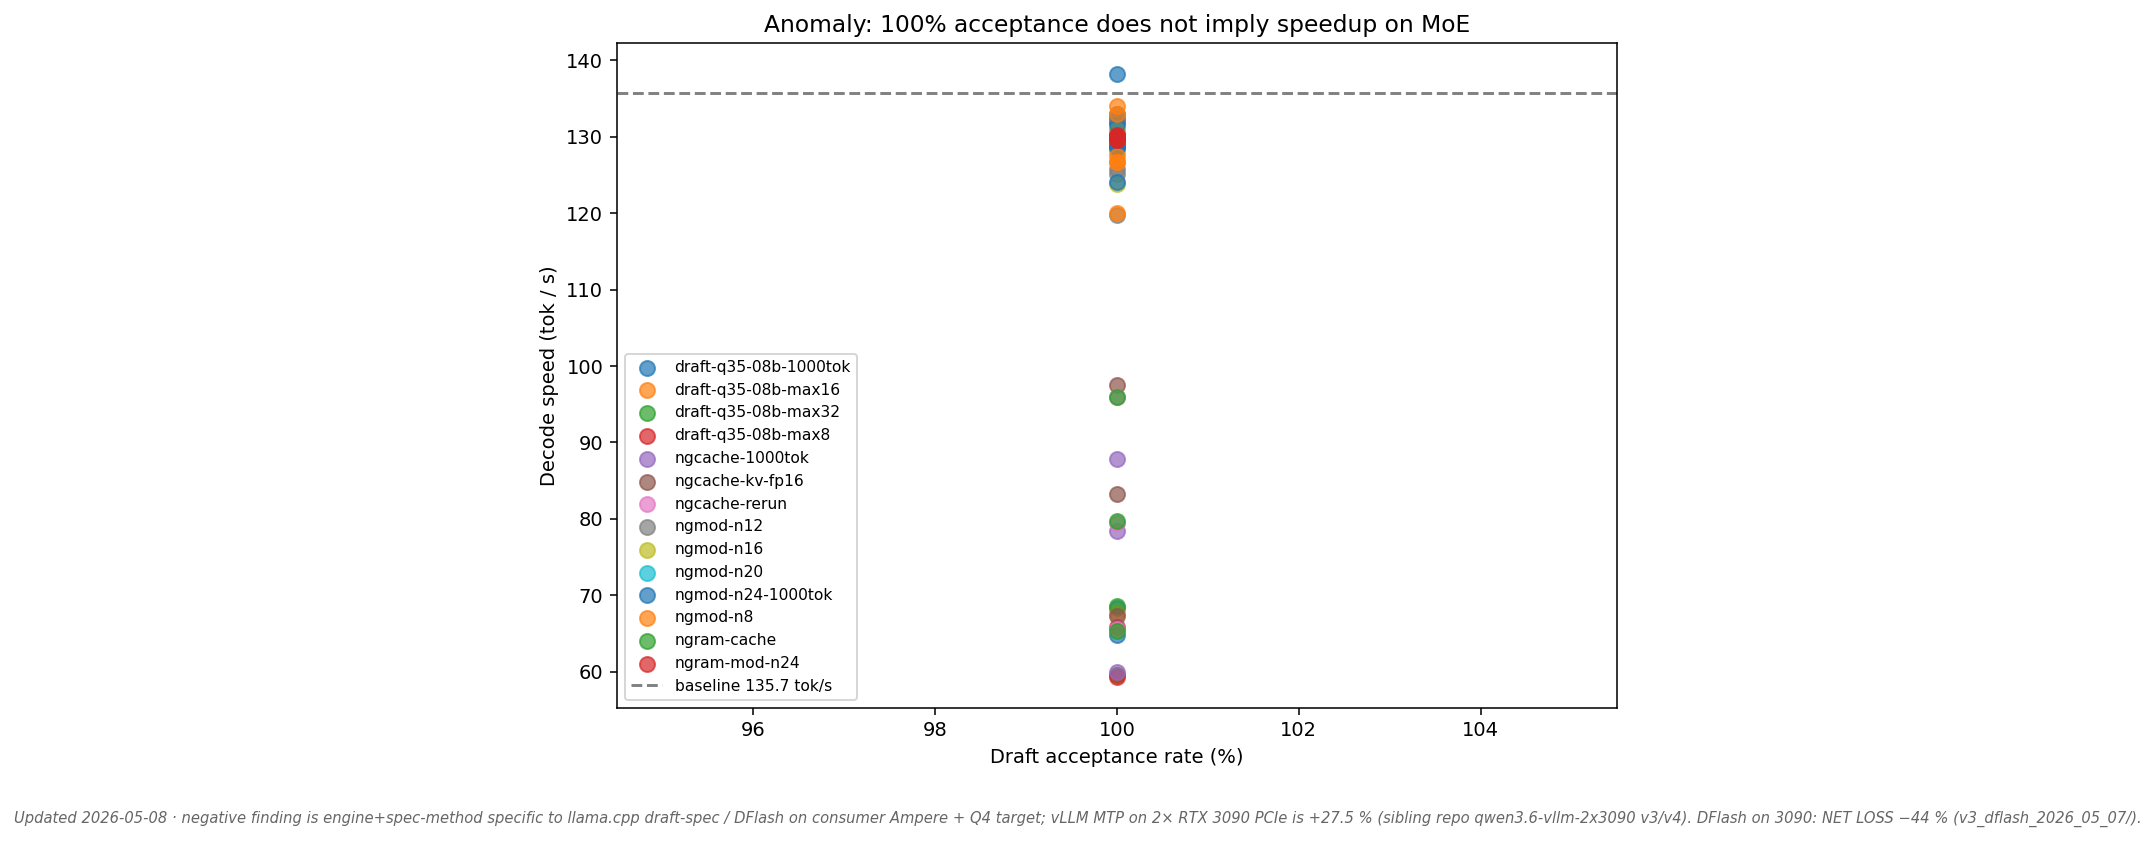
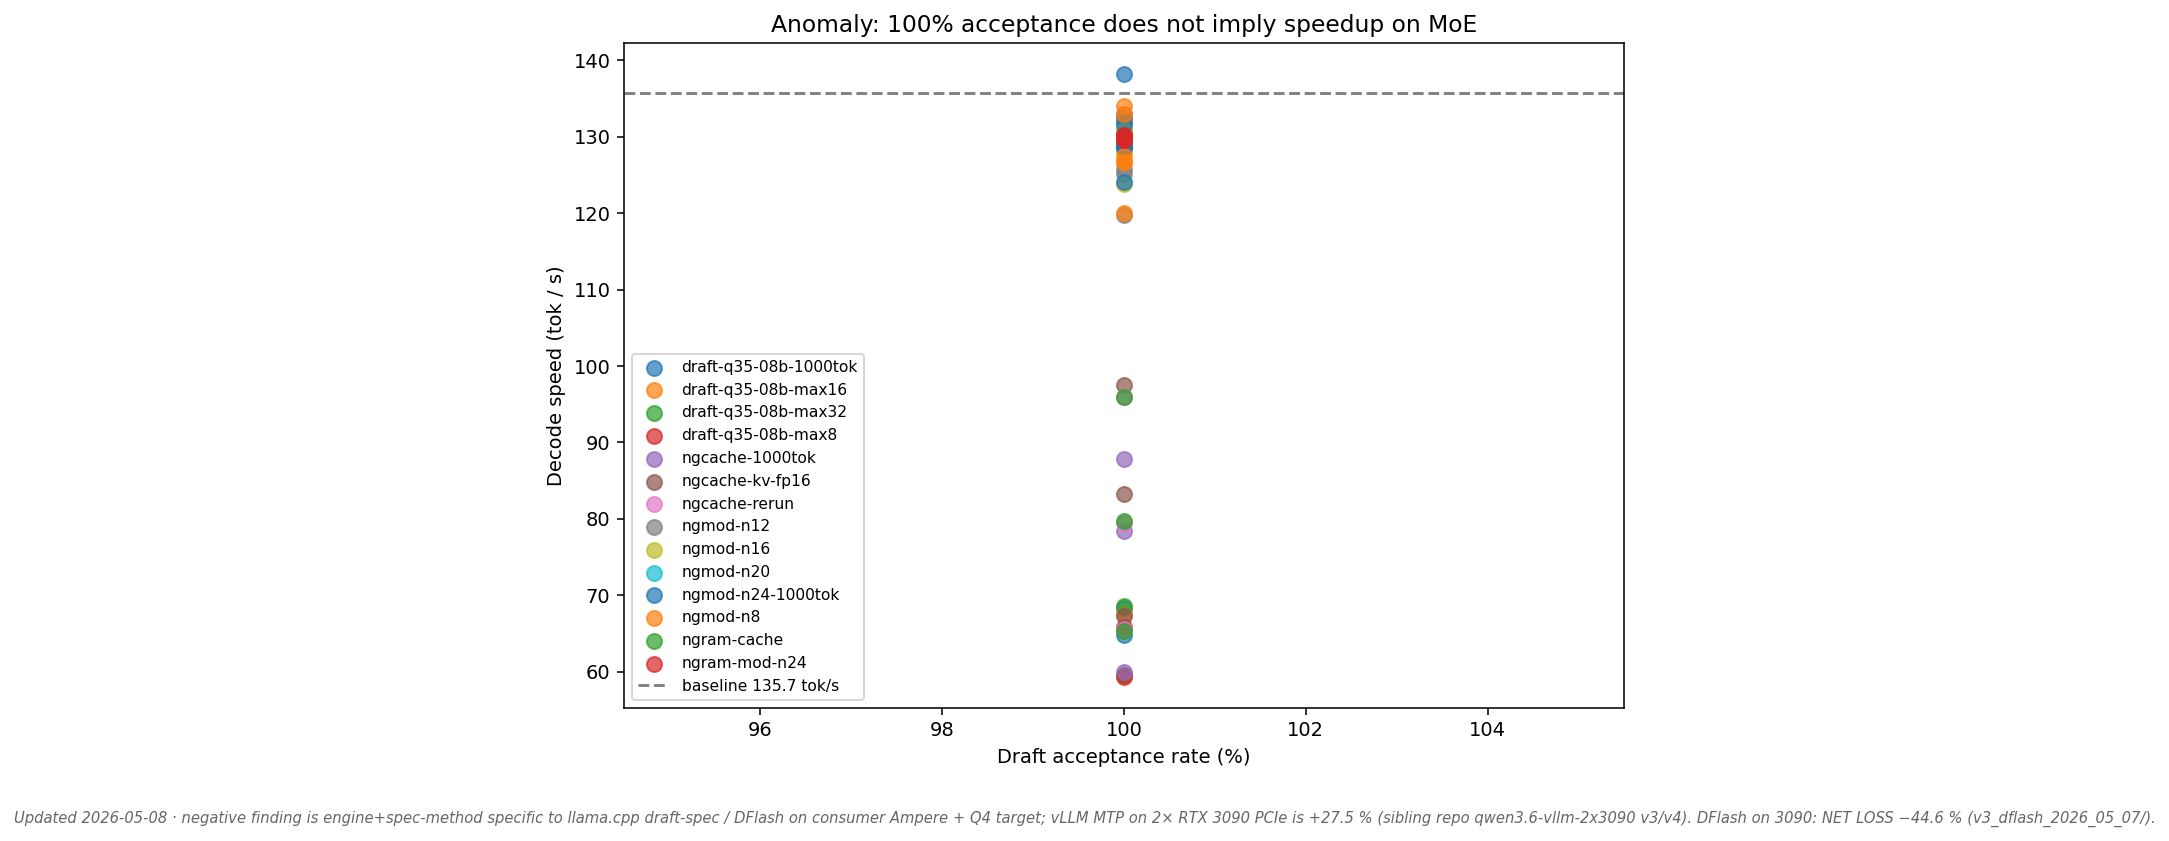
docs: precision fix DFlash NET LOSS prose -44 %% to -44.6 %%
Earlier publication used -44 %% (truncated toward zero) in prose surfaces
while the v3_dflash data table showed -44.6 %% (precise). Internal
inconsistency. Standardise on -44.6 %% across all prose:

- README.md banner
- pr_comment.md v3 update block
- CHANGELOG.md v3.0 entry
- v3_dflash_2026_05_07/README.md TL;DR + 'inside that envelope' phrase
- analysis/plot.py V22_FOOTER (regenerates 3 PNGs)

Computation: best DFlash config --draft-max=8 mean = 77.0 tok/s,
no-spec baseline = 138.9 tok/s, delta = (77.0 - 138.9) / 138.9 =
-44.564... %% which rounds to -44.6 %% at one decimal.

diff --git a/analysis/plot.py b/analysis/plot.py
@@ -39,7 +39,7 @@ V22_FOOTER = (
     "Updated 2026-05-08 · negative finding is engine+spec-method specific "
     "to llama.cpp draft-spec / DFlash on consumer Ampere + Q4 target; vLLM "
     "MTP on 2× RTX 3090 PCIe is +27.5 % (sibling repo qwen3.6-vllm-2x3090 "
-    "v3/v4). DFlash on 3090: NET LOSS −44 % (v3_dflash_2026_05_07/)."
+    "v3/v4). DFlash on 3090: NET LOSS −44.6 % (v3_dflash_2026_05_07/)."
 )
 
 

diff --git a/v3_dflash_2026_05_07/README.md b/v3_dflash_2026_05_07/README.md
@@ -11,7 +11,7 @@ v3.0 adds **DFlash** (block-diffusion drafter, llama.cpp PR #22105) — the newe
 
 ## TL;DR
 
-**DFlash on RTX 3090 + Q4_K_XL target via llama.cpp PR #22105 = NET LOSS −44 %** vs no-spec baseline. Best DFlash config (max=8) gets 77 tok/s vs 138 tok/s baseline. Slightly less bad than Oleg draft-spec's −52 % NET LOSS, but still net negative. Confirms: **no llama.cpp speculative-decoding method tested gives a positive yield on consumer Ampere with Q4 quantized target.**
+**DFlash on RTX 3090 + Q4_K_XL target via llama.cpp PR #22105 = NET LOSS −44.6 %** vs no-spec baseline. Best DFlash config (max=8) gets 77 tok/s vs 138 tok/s baseline. Slightly less bad than Oleg draft-spec's −52 % NET LOSS, but still net negative. Confirms: **no llama.cpp speculative-decoding method tested gives a positive yield on consumer Ampere with Q4 quantized target.**
 
 ## Setup
 
@@ -53,7 +53,7 @@ Same hardware/model as v2.3:
 
 The DFlash architecture conditions a small block-diffusion drafter on **multiple target hidden-states**. The drafter we used (z-lab/Qwen3.6-35B-A3B-DFlash, BF16) was trained against target hidden states in **FP16**. Our test target is **Q4_K_XL** quantized — the hidden-state distribution shifts subtly under aggressive 4-bit quantization, and the drafter is no longer cleanly aligned with the verifier.
 
-Per llama.cpp PR #22105 author's own note: *"for Qwen3.5/3.6 MoE, performance is currently not optimal due to MoE + hybrid structure not well supported."* Our number (−44 %) sits inside that envelope.
+Per llama.cpp PR #22105 author's own note: *"for Qwen3.5/3.6 MoE, performance is currently not optimal due to MoE + hybrid structure not well supported."* Our number (−44.6 %) sits inside that envelope.
 
 ### 2. The wider mechanism — MoE expert routing × consumer-Ampere bandwidth
 

diff --git a/pr_comment.md b/pr_comment.md
@@ -8,7 +8,7 @@ _Target URL: https://github.com/ggml-org/llama.cpp/pull/19493 (or as a fresh com
 > as v2; drafter `z-lab/Qwen3.6-35B-A3B-DFlash` converted to GGUF using
 > PR #22105's modified `convert_hf_to_gguf.py` with `--target-model-dir`.
 > Result: best DFlash config (`--draft-max=8`) is **77.0 tok/s vs 138.9
-> baseline (NET LOSS −44 %)**. Slightly less bad than v2 Oleg draft-spec
+> baseline (NET LOSS −44.6 %)**. Slightly less bad than v2 Oleg draft-spec
 > (−52 %) but still net negative. The MoE-expert-routing × consumer-Ampere
 > bandwidth pathology from v2 generalises: at single-stream batch=1 with
 > draft-max ≤ 16 the verify pass loads the union of expert sets at

diff --git a/CHANGELOG.md b/CHANGELOG.md
@@ -15,7 +15,7 @@ publication point with its own data set.
     Drafter is `z-lab/Qwen3.6-35B-A3B-DFlash` (HF safetensors), converted to
     GGUF via PR #22105's modified `convert_hf_to_gguf.py` with `--target-model-dir`.
   - 5 prompts x 1 trial x 3 draft-max configs (4, 8, 16) = 15 measurements.
-  - Result: **NET LOSS -44 % at best (DFlash --draft-max=8: 77.0 tok/s vs
+  - Result: **NET LOSS -44.6 % at best (DFlash --draft-max=8: 77.0 tok/s vs
     138.9 tok/s no-spec baseline)**. Slightly less bad than v2.x's Oleg
     draft-spec NET LOSS (-52 %), but still net negative.
   - First public RTX 3090 + DFlash + Q4 quantized target datapoint.

diff --git a/README.md b/README.md
@@ -4,7 +4,7 @@
 
 > **2026-05-07 — v3 update**: DFlash via llama.cpp PR #22105 added. First
 > public RTX 3090 + DFlash + Q4 datapoint. Result: best DFlash config
-> (`--draft-max=8`) is 77.0 tok/s vs 138.9 baseline = **NET LOSS −44 %**.
+> (`--draft-max=8`) is 77.0 tok/s vs 138.9 baseline = **NET LOSS −44.6 %**.
 > Slightly less bad than Oleg draft-spec (−52 %) but still net negative.
 > The MoE-expert-routing × consumer-Ampere bandwidth hypothesis from v2.x
 > generalises to DFlash too — co-trained spec heads (vLLM MTP, see
